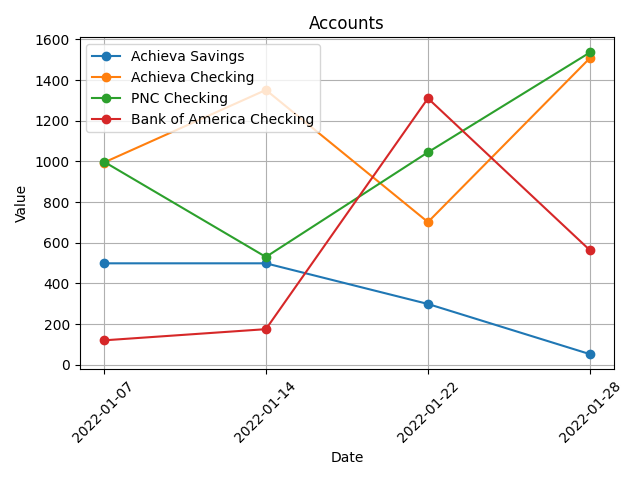
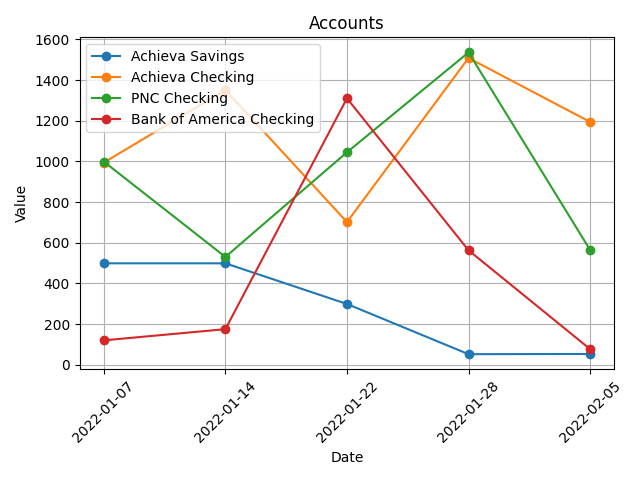
2-5 Ran Report

diff --git a/Report.md b/Report.md
@@ -44,4 +44,4 @@ The chart above shows the amount of value in our accounts, compared to our debt
 ## Notes
 * 1/14 is the first date I started running the report **before** transferring money into credit cards. Shows a phantom spike in value/debt charts
 * 1/22 Moved wedding money out of some accounts into holding area; caused the spike in debt and dip in accounts. 
-* 1/28 Boat payoff next week 🤑
+* 2/05 Boat payoff 🤑
